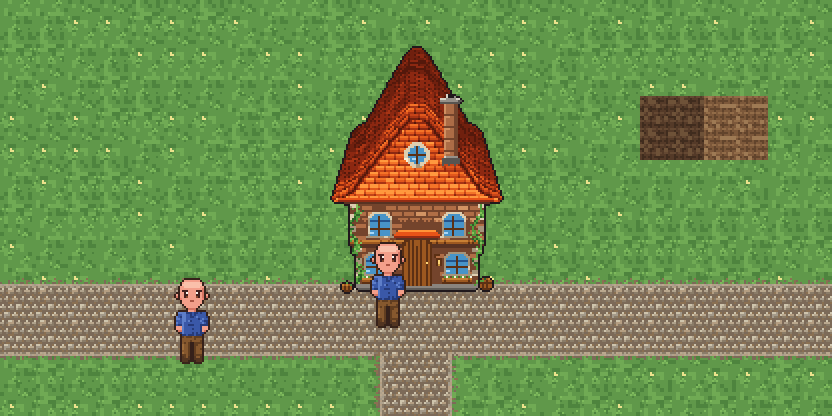
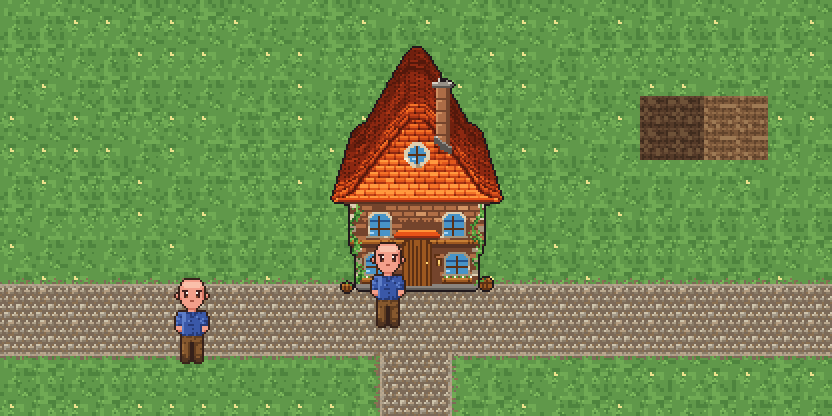
굴뚝을 뒤로 올리고, 발을 지붕 빗변에 맞춰 자른다
수평으로 자른 밑동은 굴뚝만 딴 평면에 서 있는 것처럼 보인다. 굴뚝은
**비스듬한 면을 뚫고 나온 것**이라, 오른쪽으로 갈수록 발이 내려가야 한다.

- foot(x) — 한 칸 오른쪽에 한 칸 아래(0.85). 기울기는 지붕 빗변에서 그대로 가져왔다
- 납판도 발을 따라 계단으로 내려간다. 실제 굴뚝 물받이가 저렇게 생겼다
- 지붕 그림자도 발과 같이 비스듬히 깔린다
- 켜는 **수평**으로 둔다 — 굴뚝은 서 있는 물건이고, 비스듬한 건 잘린 발뿐이다

자리도 열 칸 뒤로(위로) 올렸다. 용마루 가까이 서야 「지붕 위에 난 굴뚝」이지,
앞 지붕 한복판에 있으면 벽에 붙인 관으로 보인다.

Changed region(s): [[0.5, 0.1875, 0.5625, 0.4375]]

diff --git a/game/assets/ref/make_buildings.js b/game/assets/ref/make_buildings.js
@@ -712,56 +712,65 @@ function sign(g, cx) {
 //   그림자  지붕에 드리운다. 없으면 굴뚝이 지붕에서 떠 보인다
 function chimney(g, x, top, base) {
   const W = 7, x1 = x + W - 1, bodyY = top + 4;
-  // 몸통 — **세로로 세 톤.** 폭이 일곱 칸(화면 14px)뿐이라 벽돌 한 장은
-  // 안 읽힌다. 격자로 쪼갰더니 굴뚝이 아니라 사다리가 됐다.
-  // 왼쪽 한 줄 빛 / 가운데 / 오른쪽 두 줄 그늘이면 각진 기둥으로 선다
-  for (let y = bodyY; y <= base; y++) {
-    g.rect(x, y, x1, y, 'p1');
-    g.px(x, y, 'p0');
-    g.px(x1, y, 'p2'); g.px(x1 - 1, y, 'p2');
+  // 밑동은 **지붕 빗변과 같은 기울기로 잘린다.**
+  //
+  // 수평으로 자르면 굴뚝만 딴 평면에 서 있는 것처럼 보인다. 굴뚝은
+  // 비스듬한 면을 뚫고 나온 것이라, 오른쪽으로 갈수록 발이 내려가야 한다.
+  // 기울기는 지붕 빗변에서 그대로 가져왔다 (한 칸 오른쪽 = 한 칸 아래).
+  const SLOPE = 0.85;
+  const foot = xx => base + Math.round((Math.max(x, Math.min(x1, xx)) - x) * SLOPE);
+
+  // 몸통 — 세로 세 톤. 폭이 일곱 칸(화면 14px)뿐이라 벽돌 한 장은 안 읽힌다.
+  // 격자로 쪼갰더니 굴뚝이 아니라 사다리가 됐다. 왼쪽 한 줄 빛 /
+  // 가운데 / 오른쪽 두 줄 그늘이면 각진 기둥으로 선다
+  for (let xx = x; xx <= x1; xx++) {
+    const tone = xx === x ? 'p0' : (xx >= x1 - 1 ? 'p2' : 'p1');
+    for (let y = bodyY; y <= foot(xx); y++) g.px(xx, y, tone);
   }
-  // 켜 — 다섯 줄마다 한 줄만. 이 정도라야 「쌓아 올린 것」으로 읽히고
-  // 그보다 촘촘하면 줄무늬가 굴뚝을 삼킨다
-  for (let y = bodyY + 5; y <= base - 1; y += 6) {
-    g.hline(x, x1, y, 'p2');
-    g.hline(x, x + 2, y + 1, 'p0');       // 빛은 **왼쪽 끝에만**. 통줄로 그으면
-  }                                       // 켜가 아니라 사다리 발판이 된다
-  // 갓돌 — 양옆으로 **두 칸씩** 나온다. 이 턱과 밑그늘이 「얹혀 있다」를 만든다
+  // 켜 — 여섯 줄마다 한 줄, 빛은 왼쪽 끝에만. 굴뚝은 서 있는 물건이라
+  // 켜는 **수평**이다 (비스듬한 건 지붕에 잘린 발뿐이다)
+  for (let y = bodyY + 5; y <= foot(x1) - 1; y += 6)
+    for (let xx = x; xx <= x1; xx++) {
+      if (y > foot(xx)) continue;
+      g.px(xx, y, 'p2');
+      if (xx <= x + 2 && y + 1 <= foot(xx)) g.px(xx, y + 1, 'p0');
+    }
+  // 갓돌 — 양옆으로 두 칸씩 나온다. 이 턱과 밑그늘이 「얹혀 있다」를 만든다
   g.rect(x - 2, top + 1, x1 + 2, top + 3, 'p4');
   g.hline(x - 2, x1 + 2, top + 1, 'p3');
   g.hline(x - 2, x1 + 2, top + 3, 'p5');
   g.px(x1 + 2, top + 2, 'p5'); g.px(x1 + 1, top + 2, 'p5');
-  // 연도 — 갓 위로 살짝 솟은 관. 구멍이 있어야 연기가 나올 데가 생긴다
+  // 연도 — 갓 위로 솟은 관. 구멍이 있어야 연기가 나올 데가 생긴다
   g.rect(x + 1, top - 1, x + 5, top + 1, 'p4');
   g.px(x + 1, top - 1, 'p3'); g.px(x + 1, top, 'p3');
   g.rect(x + 2, top - 1, x + 4, top, 'O');
-  // 밑동 — **물받이(납판).**
-  //
-  // 굴뚝을 네모로 끝내면 지붕에 널빤지를 붙여 놓은 것처럼 밑이 뚝 끊긴다.
-  // 실제로 굴뚝이 지붕을 뚫고 나온 자리에는 빗물이 새지 않게 납판을 둘러 댄다.
-  // 아래로 갈수록 한 칸씩 벌어지는 이 **치마**가 굴뚝을 지붕에 앉혀 준다.
-  // 밝은 회색으로 넓게 둘렀더니 지붕 위에 붙인 **딱지**가 됐다. 납판은
-  // 이음매지 장식이 아니다 — 어둡고 좁아야 「끼워 넣은 자리」로 읽힌다.
-  for (let i = 0; i < 3; i++) {
-    const yy = base - 2 + i, e = i > 0 ? 1 : 0;
-    g.rect(x - e, yy, x1 + e, yy, i === 0 ? 'p4' : 'p5');
-    if (i === 0) g.px(x, yy, 'p3');                         // 윗줄 왼쪽만 빛
+
+  // 밑동 — **물받이(납판).** 굴뚝이 지붕을 뚫고 나온 자리에는 빗물이 새지
+  // 않게 납판을 둘러 댄다. 이 치마가 굴뚝을 지붕에 앉힌다.
+  // 밝은 회색으로 넓게 둘렀더니 지붕 위에 붙인 딱지가 됐다 — 납판은
+  // 이음매지 장식이 아니다. 어둡고 좁아야 「끼워 넣은 자리」로 읽힌다.
+  for (let xx = x - 1; xx <= x1 + 1; xx++) {
+    const b = foot(xx);
+    g.px(xx, b - 2, 'p4');
+    g.px(xx, b - 1, 'p5'); g.px(xx, b, 'p5');
+    if (xx === x) g.px(xx, b - 2, 'p3');                    // 윗줄 왼쪽만 빛
+    // 밑단은 톱니로 끊는다. 일자로 그으면 얹어 놓은 판이 되고,
+    // 한 칸씩 물리면 기와 사이로 밀어 넣은 것처럼 보인다
+    g.vline(xx, b + 1, b + ((xx + b) % 3 === 0 ? 2 : 1), 'p5');
   }
-  // 밑단은 **톱니로** 끊는다. 일자로 그으면 얹어 놓은 판이 되고,
-  // 한 칸씩 물리면 기와 사이로 밀어 넣은 것처럼 보인다
-  for (let xx = x - 1; xx <= x1 + 1; xx++)
-    g.vline(xx, base + 1, base + ((xx + base) % 3 === 0 ? 2 : 1), 'p5');
   // 지붕에 드리운 그림자 — 기와 **톤 사다리를 몇 단 아래로 밀어** 준다.
   // 색을 직접 칠하면 나중에 도는 기와 패스가 그대로 덮어쓴다
-  for (let y = top + 3; y <= base; y++)
+  for (let y = top + 3; y <= foot(x1); y++)
     for (let d = 1; d <= 4; d++)
       if (roofT[y + 2] && roofT[y + 2][x1 + d] >= 0)
         roofT[y + 2][x1 + d] = Math.min(1, roofT[y + 2][x1 + d] + (d < 3 ? 0.30 : 0.15));
-  // 납판 바로 밑에도 그늘이 깔린다 — 굴뚝이 지붕 **위로 솟아 있다**는 표시
-  for (let d = 0; d < 6; d++)
-    for (let xx = x - 1 + d; xx <= x1 + 3; xx++)
-      if (roofT[base + 3 + d] && roofT[base + 3 + d][xx] >= 0)
-        roofT[base + 3 + d][xx] = Math.min(1, roofT[base + 3 + d][xx] + 0.30 - d * 0.045);
+  // 납판 밑에도 — **발과 같이 비스듬히** 내려간다
+  for (let xx = x - 1; xx <= x1 + 4; xx++)
+    for (let d = 0; d < 6; d++) {
+      const yy = foot(xx) + 3 + d;
+      if (roofT[yy] && roofT[yy][xx] >= 0)
+        roofT[yy][xx] = Math.min(1, roofT[yy][xx] + 0.30 - d * 0.045);
+    }
 }
 
 
@@ -804,7 +813,7 @@ function build(spec) {
   // 굴뚝은 **뒤를 붙인 뒤에.** 앞 지붕면에 세우면 벽기둥처럼 보인다 —
   // 뒤로 누운 면에서 솟아야 굴뚝으로 읽힌다
   if (spec.chimney !== false)
-    chimney(g, spec.chimneyX || X1 - 16, RIDGE - 12, RIDGE + 20);
+    chimney(g, spec.chimneyX || X1 - 20, RIDGE - 20, RIDGE + 10);
 
   // ---- 살림 (뒷면 뒤에 — 앞에 놓인 것들이라 묻히면 안 된다) ----
   lantern(g, CX - 13, MID + 8);
